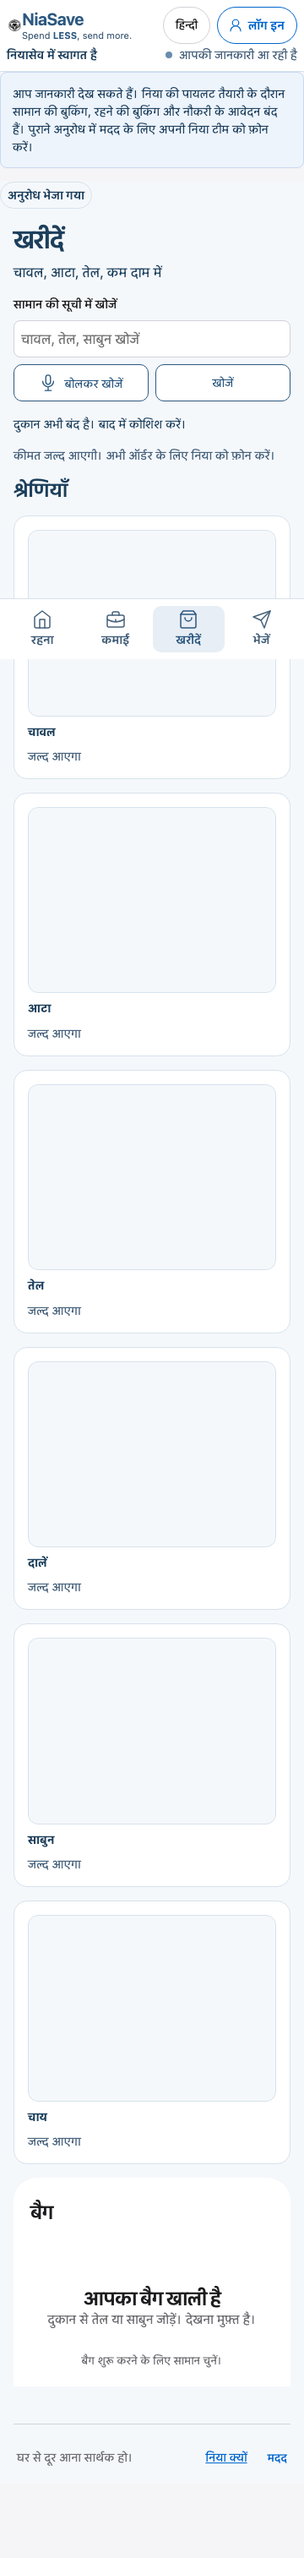
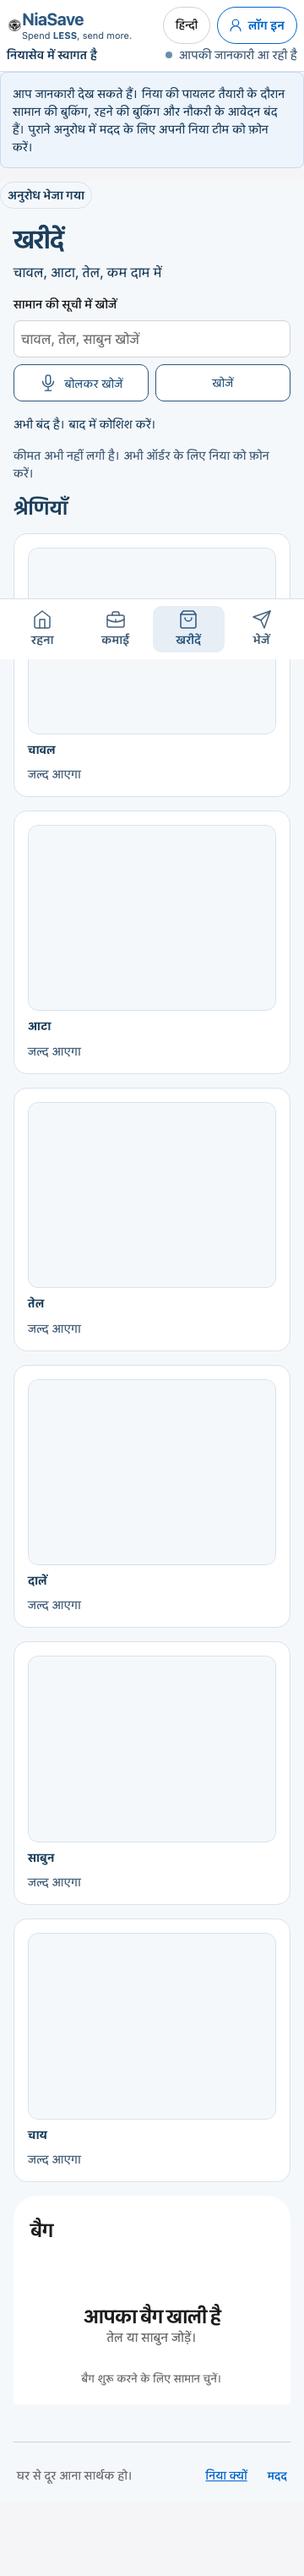
Say prices are not up yet, and drop the shop name from member sentences.
The price line is two plain sentences in English and all five languages. The closed line and the empty-bag line no longer name a shop the tabs do not use.

diff --git a/commerce.js b/commerce.js
@@ -230,7 +230,7 @@ function bagKeepTotal(){return (cat?.products||[]).reduce((n,p)=>n+productKeep(p
 function savePill(c){return ({all:t('All','सभी'),food:t('Food','खाना'),ration:t('Oils','तेल'),cleaning:t('Soap','साबुन'),'personal-care':t('Care','देखभाल'),clothing:t('Clothes','कपड़े'),footwear:t('Shoes','जूते'),insurance:t('Cover','बीमा')})[c.id]||t(c.name,c.hindi);}
 function bagChip(){if(!count()||bagOpen)return '';return `<button type="button" class="mesha-bag-chip" data-action="open-bag" aria-label="${t('Bag','बैग')} · ${count()}"><span>${t('Bag','बैग')} · ${count()}</span><span>${t('View','देखें')}</span></button>`;}
 function bagLine(p){return `<div class="mesha-bag-line"><button type="button" class="mesha-bag-thumb" data-action="detail" data-id="${p.id}" aria-label="${esc(title(p))} · ${esc(t('View item'))}">${photo(p)}<span class="icon-word">${esc(t('View item'))}</span></button><div class="mesha-bag-copy"><strong>${esc(title(p))}</strong><small>${t('Sticker price')}: ${money(p.price)}</small>${stepper(p)}</div><strong class="mesha-bag-price">${cart[p.id]} × ${money(p.price)}</strong></div>`;}
-function bag(){if(owner.active)return `<section class="mesha-bag stack"><div class="mesha-bag-head"><h2>Owner view</h2><button type="button" class="icon-button" data-action="close-bag" aria-label="${esc(t('Close dialog','बंद करें'))}"><span aria-hidden="true">×</span><span class="icon-word">${esc(t('Close dialog','बंद करें'))}</span></button></div><p>Browse published essentials and prices. Ordering requires member sign in.</p></section>`;const n=count();const heading=n?`${t('Bag','बैग')} · ${n}`:t('Bag','बैग');const body=n?(cat?.products||[]).filter(p=>cart[p.id]).map(bagLine).join(''):`<div class="mesha-bag-empty"><h2>${t('Your bag is empty','आपका बैग खाली है')}</h2><p>${t('Add oil or soap from Shop. Looking is free.','दुकान से तेल या साबुन जोड़ें। देखना मुफ़्त है।')}</p></div>`;const foot=n?`<p class="mesha-bag-note">${t(shopSourceCopy(cat?.owner).review)}</p><button class="primary full mesha-pill mesha-pill-solid" data-action="review" ${!navigator.onLine?'disabled':''}>${t('Continue','आगे बढ़ें')}</button><p class="mesha-bag-note">${t('Phone only on the next step. Nothing to pay online.','फोन अगले कदम पर। ऑनलाइन कुछ नहीं देना है।')}</p>`:`<p class="mesha-bag-note">${t('Choose a product to start your bag.')}</p>`;return `<section class="mesha-bag" aria-label="${esc(heading)}"><div class="mesha-bag-head"><h2>${esc(heading)}</h2><button type="button" class="icon-button" data-action="close-bag" aria-label="${esc(t('Close dialog','बंद करें'))}"><span aria-hidden="true">×</span><span class="icon-word">${esc(t('Close dialog','बंद करें'))}</span></button></div>${body}${foot}</section>`;}
+function bag(){if(owner.active)return `<section class="mesha-bag stack"><div class="mesha-bag-head"><h2>Owner view</h2><button type="button" class="icon-button" data-action="close-bag" aria-label="${esc(t('Close dialog','बंद करें'))}"><span aria-hidden="true">×</span><span class="icon-word">${esc(t('Close dialog','बंद करें'))}</span></button></div><p>Browse published essentials and prices. Ordering requires member sign in.</p></section>`;const n=count();const heading=n?`${t('Bag','बैग')} · ${n}`:t('Bag','बैग');const body=n?(cat?.products||[]).filter(p=>cart[p.id]).map(bagLine).join(''):`<div class="mesha-bag-empty"><h2>${t('Your bag is empty','आपका बैग खाली है')}</h2><p>${t('Add oil or soap from Shop. Looking is free.','तेल या साबुन जोड़ें।')}</p></div>`;const foot=n?`<p class="mesha-bag-note">${t(shopSourceCopy(cat?.owner).review)}</p><button class="primary full mesha-pill mesha-pill-solid" data-action="review" ${!navigator.onLine?'disabled':''}>${t('Continue','आगे बढ़ें')}</button><p class="mesha-bag-note">${t('Phone only on the next step. Nothing to pay online.','फोन अगले कदम पर। ऑनलाइन कुछ नहीं देना है।')}</p>`:`<p class="mesha-bag-note">${t('Choose a product to start your bag.')}</p>`;return `<section class="mesha-bag" aria-label="${esc(heading)}"><div class="mesha-bag-head"><h2>${esc(heading)}</h2><button type="button" class="icon-button" data-action="close-bag" aria-label="${esc(t('Close dialog','बंद करें'))}"><span aria-hidden="true">×</span><span class="icon-word">${esc(t('Close dialog','बंद करें'))}</span></button></div>${body}${foot}</section>`;}
 function bagLayer(){return `<div class="mesha-bag-layer"><button type="button" class="mesha-bag-backdrop" data-action="close-bag" aria-label="${t('Close dialog','बंद करें')}"></button>${bag()}</div>`;}
 function checkoutPhoneMarkup(){const national=nationalMobile(authPhone);return `<form id="login-form" class="stack mesha-checkout-form" data-auth-step="phone"><p>${t('Enter your phone. Pay when you collect.','फोन डालें। सामान लेते समय पैसे दें।')}</p><label>${t('Mobile number','मोबाइल नंबर')}<span class="phone-field"><span class="phone-prefix" aria-hidden="true">+91</span><input name="phone" type="tel" autocomplete="tel-national" inputmode="numeric" pattern="[6-9][0-9]{9}" minlength="10" maxlength="10" placeholder="${t('10-digit mobile number','10 अंकों का मोबाइल नंबर')}" value="${esc(national)}" required></span></label><div id="form-error" class="error-inline" role="alert"></div><button class="primary mesha-pill mesha-pill-solid" type="submit">${t('Continue','आगे बढ़ें')}</button><p class="mesha-checkout-foot">${t('Only asked at checkout · bag stays on this phone','केवल चेकआउट पर पूछा जाता है · बैग इसी फोन पर रहता है')}</p></form>`;}
 function checkoutSignIn(){if(bagOpen){bagOpen=false;render();}if(!cat||cat.memberAuth==='passkey'||cat.preview)return login();if(authStep==='password'&&authPhone&&usesPasswordAuth(cat))return login();authStep='phone';show(t('Your phone','आपका फोन'),checkoutPhoneMarkup());$('#dialog').classList.add('mesha-checkout');document.body.classList.add('mesha-checkout-open');}

diff --git a/commerce-locales/ta.js b/commerce-locales/ta.js
@@ -591,7 +591,7 @@ export default {
   "Catalogue from Central": "சென்ட்ரலில் இருந்து பொருள் பட்டியல்",
   "Catalogue needs refreshing": "பட்டியலைப் புதுப்பிக்க வேண்டும்",
   "Catalogue details missing from Central": "சென்ட்ரல் பட்டியல் விவரங்கள் இல்லை",
-  "Shop is closed for now. Please try later.": "கடை இப்போது மூடியுள்ளது. பிறகு முயலுங்கள்.",
+  "Shop is closed for now. Please try later.": "இப்போது மூடியுள்ளது. பிறகு முயலுங்கள்.",
   "No products published yet": "இன்னும் பொருட்கள் வெளியிடப்படவில்லை",
   "Offline. Reconnect for current prices": "இணையம் இல்லை. தற்போதைய விலைக்கு மீண்டும் இணையுங்கள்",
   "View item": "பொருளைப் பார்க்கவும்",
@@ -606,7 +606,7 @@ export default {
   "Search rice, oil, soap": "அரிசி, எண்ணெய், சோப்பு தேடவும்",
   "Search by voice": "குரலால் தேடவும்",
   "Search": "தேடவும்",
-  "Prices come soon. Call Nia to order now.": "விலை விரைவில் வரும். இப்போது ஆர்டர் செய்ய நியாவை போன் செய்யுங்கள்.",
+  "Prices are not up yet. To order now, call Nia.": "விலை இன்னும் போடவில்லை. இப்போது ஆர்டர் செய்ய நியாவை போன் செய்யுங்கள்.",
   "Final price and availability are checked by Central at review.": "இறுதி விலையும் கிடைப்பும் சென்ட்ரல் மதிப்பாய்வில் சரிபார்க்கப்படும்.",
   "Choose a product to start your bag.": "பையைத் தொடங்க ஒரு பொருளைத் தேர்ந்தெடுக்கவும்.",
   "Voice search is unavailable on this device.": "இந்தச் சாதனத்தில் குரல் தேடல் இல்லை.",

diff --git a/commerce-locales/bn.js b/commerce-locales/bn.js
@@ -819,7 +819,7 @@ export default {
   "Catalogue from Central": "সেন্ট্রাল থেকে পণ্যের তালিকা",
   "Catalogue needs refreshing": "তালিকা নতুন করে আনতে হবে",
   "Catalogue details missing from Central": "সেন্ট্রাল থেকে তালিকার বিবরণ পাওয়া যায়নি",
-  "Shop is closed for now. Please try later.": "দোকান এখন বন্ধ। পরে চেষ্টা করুন।",
+  "Shop is closed for now. Please try later.": "এখন বন্ধ আছে। পরে চেষ্টা করুন।",
   "No products published yet": "এখনও কোনো পণ্য প্রকাশিত হয়নি",
   "Offline. Reconnect for current prices": "অফলাইন। বর্তমান দাম দেখতে ইন্টারনেটে যুক্ত হন",
   "View item": "পণ্য দেখুন",
@@ -834,7 +834,7 @@ export default {
   "Search rice, oil, soap": "চাল, তেল, সাবান খুঁজুন",
   "Search by voice": "কণ্ঠে খুঁজুন",
   "Search": "খুঁজুন",
-  "Prices come soon. Call Nia to order now.": "দাম শীঘ্রই আসবে। এখন অর্ডার করতে নিয়াকে ফোন করুন।",
+  "Prices are not up yet. To order now, call Nia.": "দাম এখনও ঠিক হয়নি। এখন অর্ডার করতে নিয়াকে ফোন করুন।",
   "Final price and availability are checked by Central at review.": "চূড়ান্ত দাম ও প্রাপ্যতা পর্যালোচনার সময় সেন্ট্রাল যাচাই করবে।",
   "Choose a product to start your bag.": "ব্যাগ শুরু করতে একটি পণ্য বেছে নিন।",
   "Voice search is unavailable on this device.": "এই ডিভাইসে কণ্ঠে খোঁজ নেই।",

diff --git a/commerce-locales/hi.js b/commerce-locales/hi.js
@@ -228,7 +228,7 @@ export default {
   "Catalogue from Central": "सेंट्रल से आई सामान की सूची",
   "Catalogue needs refreshing": "सामान की सूची ताज़ा करनी है",
   "Catalogue details missing from Central": "सेंट्रल से सूची का विवरण नहीं मिला",
-  "Shop is closed for now. Please try later.": "दुकान अभी बंद है। बाद में कोशिश करें।",
+  "Shop is closed for now. Please try later.": "अभी बंद है। बाद में कोशिश करें।",
   "No products published yet": "अभी कोई उत्पाद प्रकाशित नहीं है",
   "Offline. Reconnect for current prices": "ऑफ़लाइन। मौजूदा कीमत के लिए जुड़ें",
   "View item": "सामान देखें",
@@ -244,7 +244,7 @@ export default {
   "Search rice, oil, soap": "चावल, तेल, साबुन खोजें",
   "Search by voice": "बोलकर खोजें",
   "Search": "खोजें",
-  "Prices come soon. Call Nia to order now.": "कीमत जल्द आएगी। अभी ऑर्डर के लिए निया को फ़ोन करें।",
+  "Prices are not up yet. To order now, call Nia.": "कीमत अभी नहीं लगी है। अभी ऑर्डर के लिए निया को फ़ोन करें।",
   "Final price and availability are checked by Central at review.": "अंतिम कीमत और उपलब्धता सेंट्रल समीक्षा के समय जाँचेगा।",
   "Choose a product to start your bag.": "बैग शुरू करने के लिए सामान चुनें।",
   "Voice search is unavailable on this device.": "इस उपकरण पर बोलकर खोज उपलब्ध नहीं है।",

diff --git a/commerce-locales/mr.js b/commerce-locales/mr.js
@@ -419,10 +419,10 @@ export default {
   "Getting your details": "तुमची माहिती येत आहे",
   "Rice, atta, oil at low prices": "तांदूळ, पीठ, तेल, कमी भावात",
   "Price coming soon": "किंमत लवकर येईल",
-  "Prices come soon. Call Nia to order now.": "किंमत लवकर येईल. आत्ता ऑर्डरसाठी नियाला फोन करा.",
-  "Shop is closed for now. Please try later.": "दुकान आत्ता बंद आहे. नंतर प्रयत्न करा.",
+  "Prices are not up yet. To order now, call Nia.": "किंमत अजून लागली नाही. आत्ता ऑर्डरसाठी नियाला फोन करा.",
+  "Shop is closed for now. Please try later.": "आत्ता बंद आहे. नंतर प्रयत्न करा.",
   "Coming soon": "लवकर येईल",
   "Where do you stay? We will show work near you.": "तुम्ही कुठे राहता? आम्ही जवळचे काम दाखवू.",
   "Finding jobs near you": "तुमच्या जवळची कामे शोधत आहोत",
-  "Add oil or soap from Shop. Looking is free.": "दुकानातून तेल किंवा साबण घाला. बघणे मोफत आहे.",
+  "Add oil or soap from Shop. Looking is free.": "तेल किंवा साबण घाला.",
 };

diff --git a/commerce-locales/kn.js b/commerce-locales/kn.js
@@ -441,8 +441,8 @@ export default {
   "Getting your details": "ನಿಮ್ಮ ವಿವರ ಬರುತ್ತಿದೆ",
   "Rice, atta, oil at low prices": "ಅಕ್ಕಿ, ಆಟಾ, ಎಣ್ಣೆ, ಕಡಿಮೆ ಬೆಲೆ",
   "Price coming soon": "ಬೆಲೆ ಬೇಗ ಬರುತ್ತದೆ",
-  "Prices come soon. Call Nia to order now.": "ಬೆಲೆ ಬೇಗ ಬರುತ್ತದೆ. ಈಗ ಆರ್ಡರ್ ಮಾಡಲು ನಿಯಾಗೆ ಫೋನ್ ಮಾಡಿ.",
-  "Shop is closed for now. Please try later.": "ಅಂಗಡಿ ಈಗ ಮುಚ್ಚಿದೆ. ನಂತರ ಪ್ರಯತ್ನಿಸಿ.",
+  "Prices are not up yet. To order now, call Nia.": "ಬೆಲೆ ಇನ್ನೂ ಹಾಕಿಲ್ಲ. ಈಗ ಆರ್ಡರ್ ಮಾಡಲು ನಿಯಾಗೆ ಫೋನ್ ಮಾಡಿ.",
+  "Shop is closed for now. Please try later.": "ಈಗ ಮುಚ್ಚಿದೆ. ನಂತರ ಪ್ರಯತ್ನಿಸಿ.",
   "Coming soon": "ಬೇಗ ಬರುತ್ತದೆ",
   "Where do you stay? We will show work near you.": "ನೀವು ಎಲ್ಲಿ ಇರುತ್ತೀರಿ? ಹತ್ತಿರದ ಕೆಲಸ ತೋರಿಸುತ್ತೇವೆ.",
   "Finding jobs near you": "ನಿಮ್ಮ ಹತ್ತಿರದ ಕೆಲಸ ಹುಡುಕುತ್ತಿದ್ದೇವೆ",

diff --git a/commerce-locales/member-updates/ta.js b/commerce-locales/member-updates/ta.js
@@ -133,7 +133,7 @@ export default {
   "Shoes": "காலணி",
   "Cover": "காப்பீடு",
   "Your bag is empty": "உங்கள் பை காலியாக உள்ளது",
-  "Add oil or soap from Shop. Looking is free.": "கடையில் எண்ணெய் அல்லது சோப்பு சேருங்கள். பார்ப்பது இலவசம்.",
+  "Add oil or soap from Shop. Looking is free.": "எண்ணெய் அல்லது சோப்பு சேருங்கள்.",
   "Back to Save": "Save-க்கு திரும்பு",
   "vs kirana": "கிரானாவை விட குறைவு",
   "pay at pickup": "பிக்அப்பில் செலுத்துங்கள்",

diff --git a/commerce-locales/member-updates/bn.js b/commerce-locales/member-updates/bn.js
@@ -25,7 +25,7 @@ export default {
   "Shoes": "জুতো",
   "Cover": "বীমা",
   "Your bag is empty": "আপনার ব্যাগ খালি",
-  "Add oil or soap from Shop. Looking is free.": "দোকান থেকে তেল বা সাবান যোগ করুন। দেখা ফ্রি।",
+  "Add oil or soap from Shop. Looking is free.": "তেল বা সাবান যোগ করুন।",
   "Back to Save": "Save-এ ফিরুন",
   "vs kirana": "কিরানার চেয়ে কম",
   "pay at pickup": "পিকআপে টাকা",

diff --git a/commerce-locales/member-updates/hi.js b/commerce-locales/member-updates/hi.js
@@ -134,7 +134,7 @@ export default {
   "Shoes": "जूते",
   "Cover": "बीमा",
   "Your bag is empty": "आपका बैग खाली है",
-  "Add oil or soap from Shop. Looking is free.": "दुकान से तेल या साबुन जोड़ें। देखना मुफ़्त है।",
+  "Add oil or soap from Shop. Looking is free.": "तेल या साबुन जोड़ें।",
   "Back to Save": "Save पर वापस",
   "vs kirana": "किराना से कम",
   "pay at pickup": "पिकअप पर भुगतान",

diff --git a/commerce-locales/member-updates/kn.js b/commerce-locales/member-updates/kn.js
@@ -133,7 +133,7 @@ export default {
   "Shoes": "Shoes",
   "Cover": "Cover",
   "Your bag is empty": "Your bag is empty",
-  "Add oil or soap from Shop. Looking is free.": "ಅಂಗಡಿಯಿಂದ ಎಣ್ಣೆ ಅಥವಾ ಸೋಪ್ ಸೇರಿಸಿ. ನೋಡೋದು ಉಚಿತ.",
+  "Add oil or soap from Shop. Looking is free.": "ಎಣ್ಣೆ ಅಥವಾ ಸೋಪ್ ಸೇರಿಸಿ.",
   "Back to Save": "Back to Save",
   "vs kirana": "vs kirana",
   "pay at pickup": "pay at pickup",

diff --git a/commerce-shop-v2.js b/commerce-shop-v2.js
@@ -26,7 +26,7 @@ export function shopSourceCopy(owner){
     missing:'Catalogue details missing from Central',empty:'No products published yet',
     photo:'',unit:'Price coming soon',
     categories:'Central has not assigned these products to the six Shop categories.',
-    ranking:'Prices come soon. Call Nia to order now.',
+    ranking:'Prices are not up yet. To order now, call Nia.',
     review:'Final price and availability are checked by Central at review.',
   };
 }
